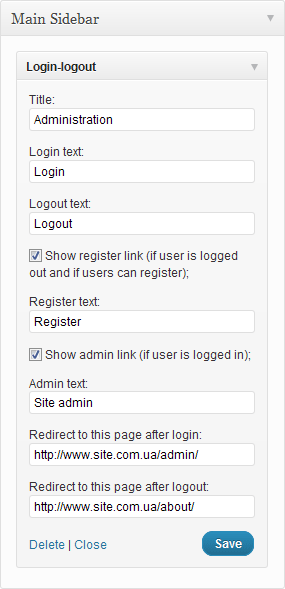
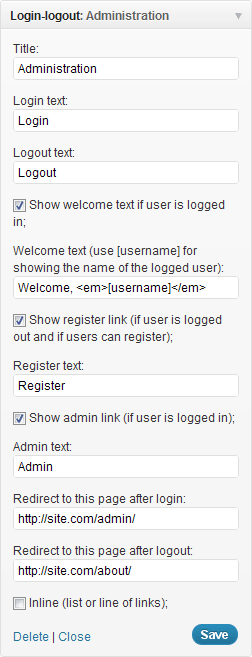
2.1 commit;
git-svn-id: https://plugins.svn.wordpress.org/login-logout/trunk@443670 b8457f37-d9ea-0310-8a92-e5e31aec5664

diff --git a/login-logout.php b/login-logout.php
@@ -3,7 +3,7 @@
 Plugin Name: Login Logout
 Plugin URI: http://web-profile.com.ua/wordpress/plugins/login-logout/
 Description: Show login or logout link. Show register or site-admin link.
-Version: 2.0.1
+Version: 2.1
 Author: webvitaly
 Author Email: webvitaly(at)gmail.com
 Author URI: http://web-profile.com.ua/
@@ -51,17 +51,17 @@ class WP_Widget_Login_Logout extends WP_Widget {
 		if( $inline ){
 			$wrap_before = '<p class="wrap_login_logout">';
 			$wrap_after = '</p>';
-			$item_before = '<span>';
+			$item_before = '<span class='; // class will be added and the tag is not closed
 			$item_after = '</span>';
 			$split_char = ' | ';
 		}else{
 			$wrap_before = '<ul class="wrap_login_logout">';
 			$wrap_after = '</ul>';
-			$item_before = '<li>';
+			$item_before = '<li class='; // class will be added and the tag is not closed
 			$item_after = '</li>';
 			$split_char = '';
 		}
-		echo "\n".'<!-- powered by Login-Logout plugin ver. 2.0.1 -->'."\n";
+		echo "\n".'<!-- powered by Login-Logout plugin ver. 2.1 -->'."\n";
 		echo $wrap_before."\n";
 		if ( $show_welcome_text ){
 			if ( is_user_logged_in() ){
@@ -69,14 +69,16 @@ class WP_Widget_Login_Logout extends WP_Widget {
 				$username = $current_user->display_name;
 				$username_link = '<a href="'.admin_url('profile.php').'">'.$username.'</a>';
 				$welcome_text_new = str_replace('[username]', $username_link, $welcome_text);
-				echo $item_before.$welcome_text_new.$item_after.$split_char;
+				echo $item_before.'"item_welcome">'.$welcome_text_new.$item_after.$split_char;
 			}
 		}
 		echo $item_before;
 		//wp_loginout( $redirect_to_self );
 		if ( ! is_user_logged_in() ){
+			echo '"item_login">';
 			echo '<a href="'.esc_url( wp_login_url( $login_redirect_to ) ).'">'.$login_text.'</a>';
 		}else{
+			echo '"item_logout">';
 			echo '<a href="'.esc_url( wp_logout_url( $logout_redirect_to ) ).'">'.$logout_text.'</a>';
 		}
 		echo $item_after;
@@ -84,13 +86,13 @@ class WP_Widget_Login_Logout extends WP_Widget {
 		if( $register_link ){
 			if ( ! is_user_logged_in() ) {
 				if ( get_option('users_can_register') ){
-					echo $split_char.$item_before.'<a href="'.site_url('wp-login.php?action=register', 'login').'">'.$register_text.'</a>'.$item_after;
+					echo $split_char.$item_before.'"item_register">'.'<a href="'.site_url('wp-login.php?action=register', 'login').'">'.$register_text.'</a>'.$item_after;
 				}
 			}
 		}
 		if( $admin_link ){
 			if ( is_user_logged_in() ) {
-				echo $split_char.$item_before.'<a href="'.admin_url().'">'.$admin_text.'</a>'.$item_after;
+				echo $split_char.$item_before.'"item_admin">'.'<a href="'.admin_url().'">'.$admin_text.'</a>'.$item_after;
 			}
 		}
 		echo "\n".$wrap_after."\n";
@@ -112,14 +114,14 @@ class WP_Widget_Login_Logout extends WP_Widget {
 			)
 		);
 		$instance['title'] = strip_tags($new_instance['title']);
-		$instance['login_text'] = strip_tags($new_instance['login_text']);
-		$instance['logout_text'] = strip_tags($new_instance['logout_text']);
+		$instance['login_text'] = trim($new_instance['login_text']);
+		$instance['logout_text'] = trim($new_instance['logout_text']);
 		$instance['show_welcome_text'] = $new_instance['show_welcome_text'] ? 1 : 0;
-		$instance['welcome_text'] = strip_tags($new_instance['welcome_text']);
+		$instance['welcome_text'] = trim($new_instance['welcome_text']);
 		$instance['register_link'] = $new_instance['register_link'] ? 1 : 0;
-		$instance['register_text'] = strip_tags($new_instance['register_text']);
+		$instance['register_text'] = trim($new_instance['register_text']);
 		$instance['admin_link'] = $new_instance['admin_link'] ? 1 : 0;
-		$instance['admin_text'] = strip_tags($new_instance['admin_text']);
+		$instance['admin_text'] = trim($new_instance['admin_text']);
 		$instance['login_redirect_to'] = strip_tags($new_instance['login_redirect_to']);
 		$instance['logout_redirect_to'] = strip_tags($new_instance['logout_redirect_to']);
 		$instance['inline'] = $new_instance['inline'] ? 1 : 0;
@@ -139,14 +141,14 @@ class WP_Widget_Login_Logout extends WP_Widget {
 			)
 		);
 		$title = strip_tags($instance['title']);
-		$login_text = strip_tags($instance['login_text']);
-		$logout_text = strip_tags($instance['logout_text']);
+		$login_text = trim($instance['login_text']);
+		$logout_text = trim($instance['logout_text']);
 		$show_welcome_text = $instance['show_welcome_text'] ? 'checked="checked"' : '';
-		$welcome_text = strip_tags($instance['welcome_text']);
+		$welcome_text = trim($instance['welcome_text']);
 		$register_link = $instance['register_link'] ? 'checked="checked"' : '';
-		$register_text = strip_tags($instance['register_text']);
+		$register_text = trim($instance['register_text']);
 		$admin_link = $instance['admin_link'] ? 'checked="checked"' : '';
-		$admin_text = strip_tags($instance['admin_text']);
+		$admin_text = trim($instance['admin_text']);
 		$login_redirect_to = strip_tags($instance['login_redirect_to']);
 		$logout_redirect_to = strip_tags($instance['logout_redirect_to']);
 		$inline = $instance['inline'] ? 'checked="checked"' : '';
